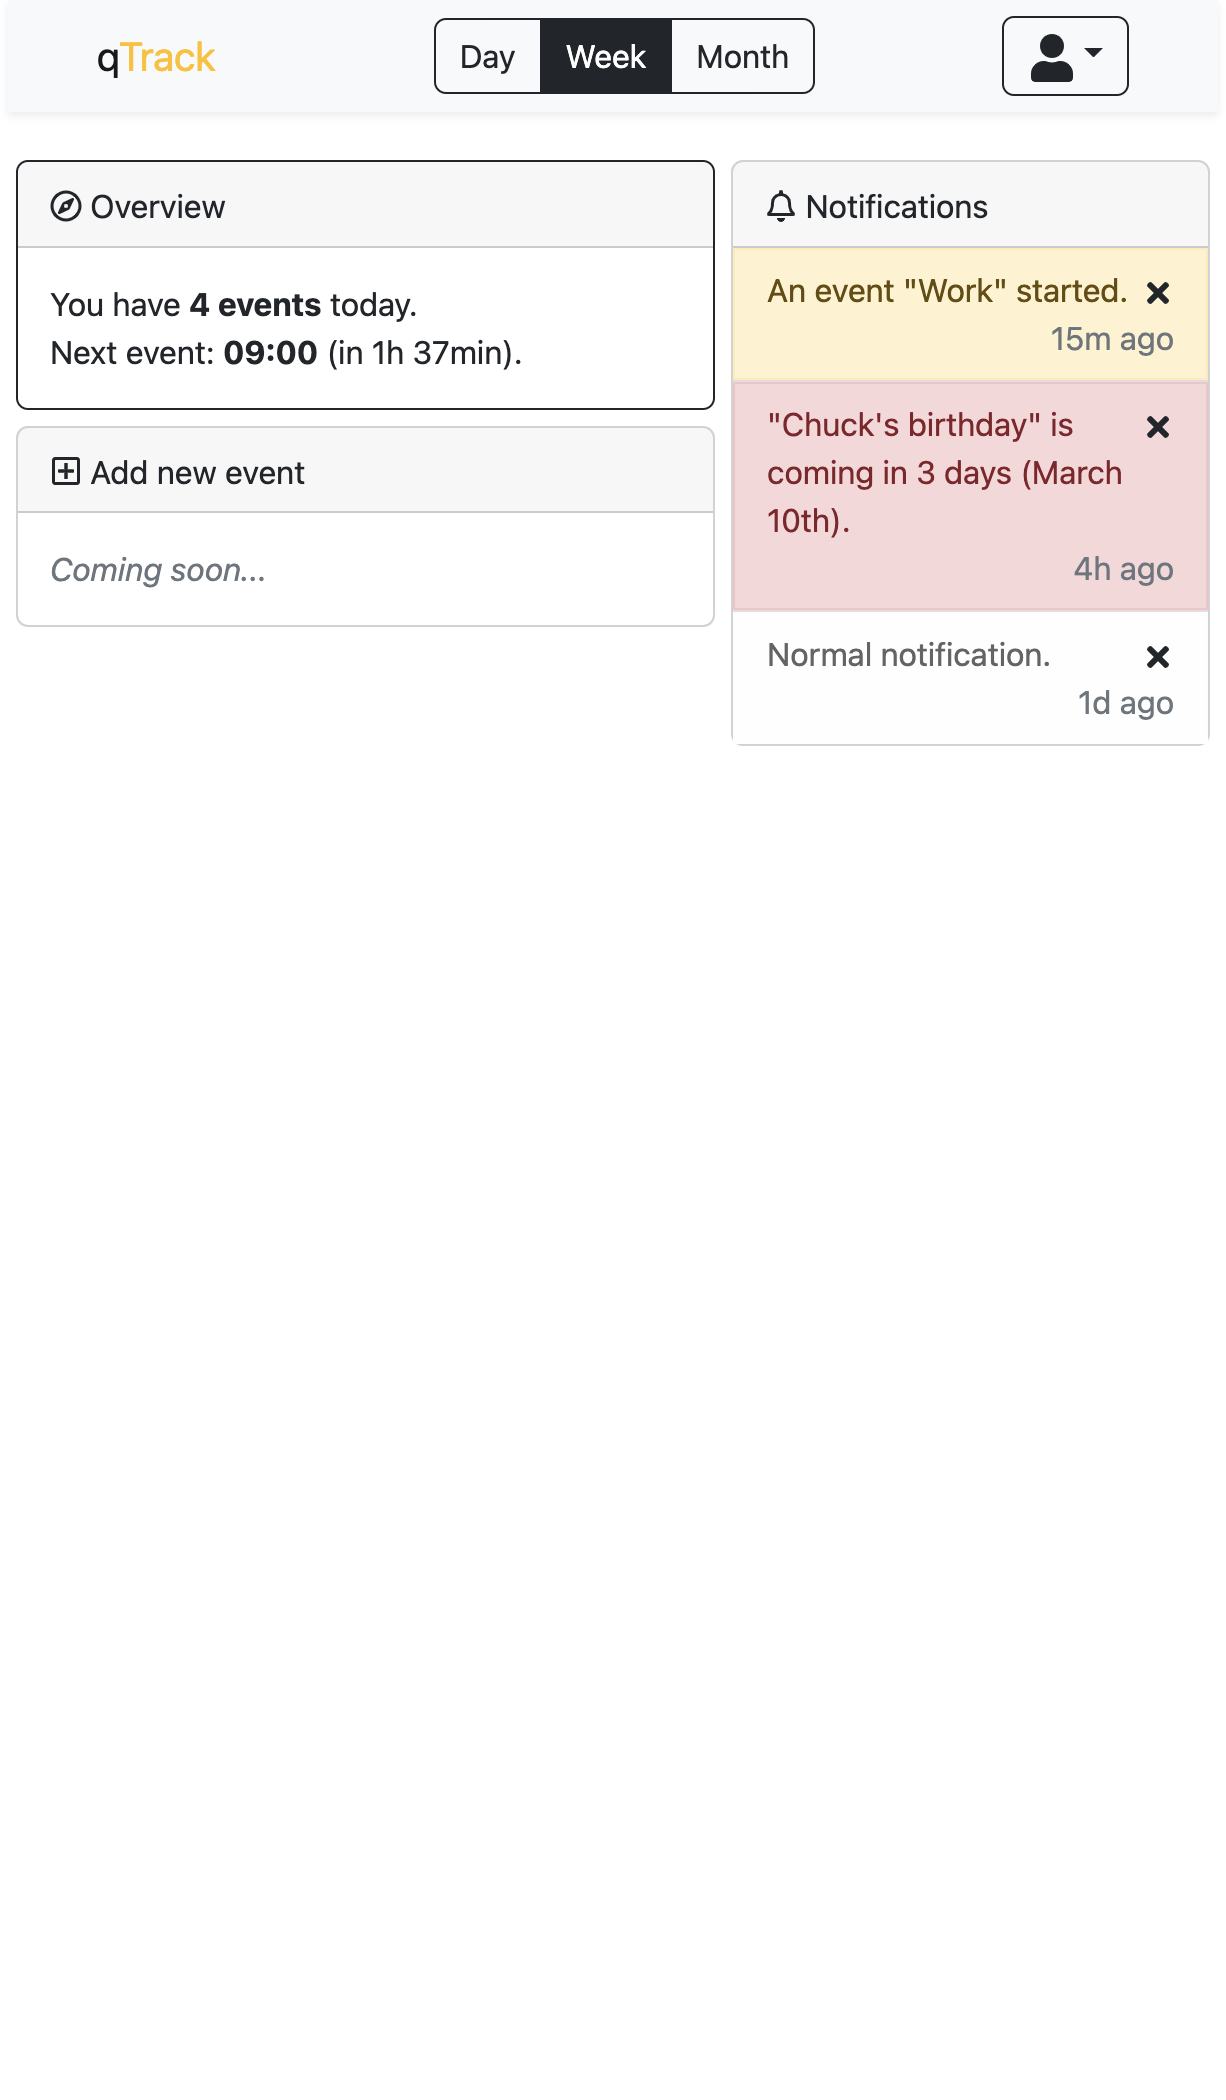
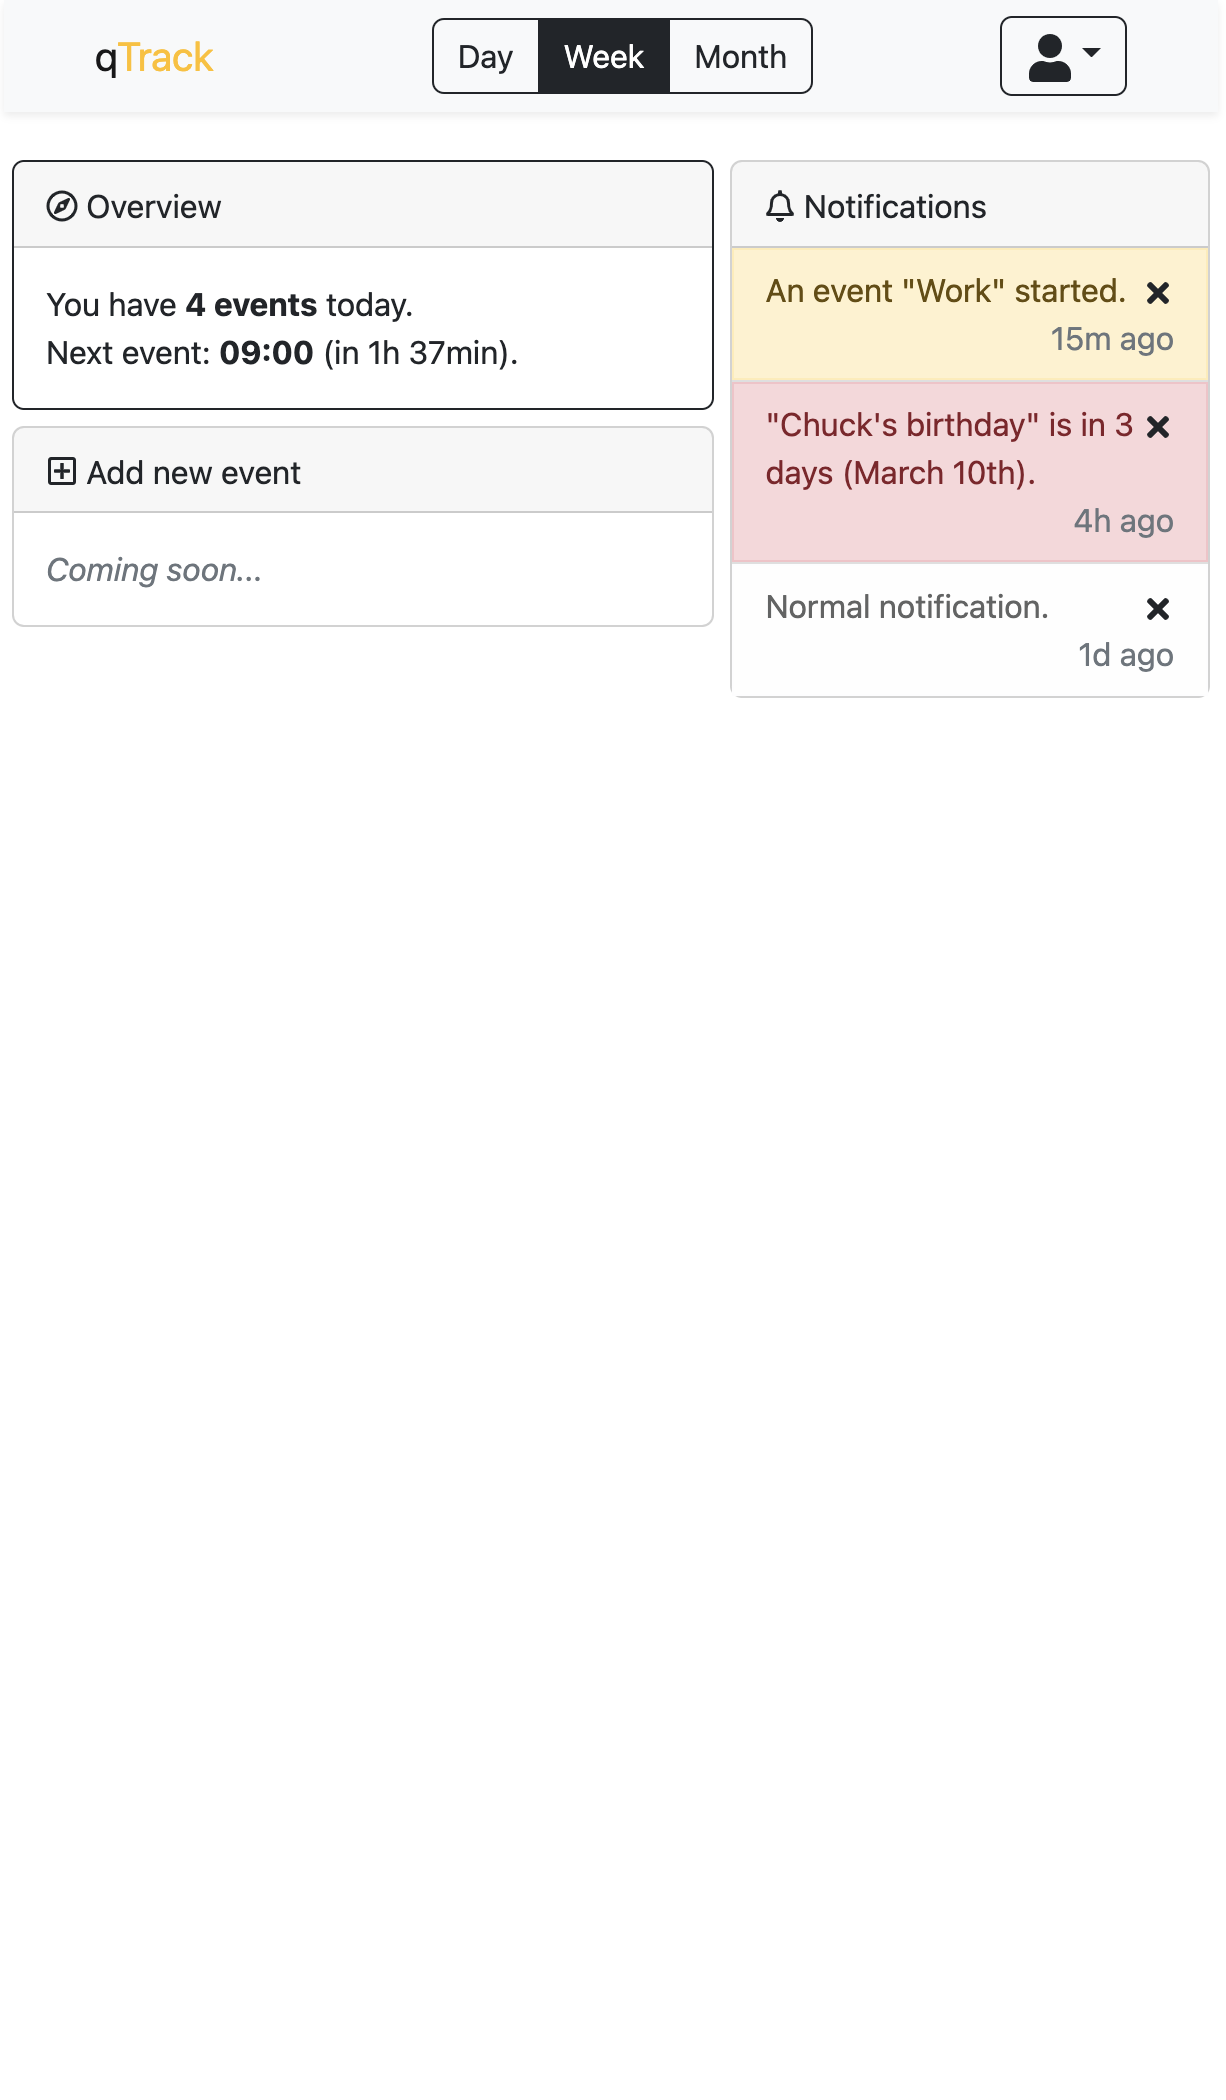
Visual improvements

diff --git a/frontend/src/pages/Week.tsx b/frontend/src/pages/Week.tsx
@@ -7,7 +7,7 @@ type Props = {};
 export const Week = (props: Props) => {
     return (
         <>
-            <div className="week bg-light">
+            <div className="week">
                 <div className="header">
                     <ul className="splitter">
                         <li></li>
@@ -19,7 +19,7 @@ export const Week = (props: Props) => {
                         <li></li>
                     </ul>
 
-                    <ul className="weekDays">
+                    <ul className="weekDays fw-bold text-muted">
                         <li>Mon</li>
                         <li>Tue</li>
                         <li>Wed</li>
@@ -29,7 +29,7 @@ export const Week = (props: Props) => {
                         <li>Sun</li>
                     </ul>
 
-                    <ul className="dayNumbers">
+                    <ul className="dayNumbers fw-bold">
                         <li>10</li>
                         <li>11</li>
                         <li>12</li>
@@ -41,31 +41,33 @@ export const Week = (props: Props) => {
                 </div>
 
                 <div className="timeContainer">
-                    <ul className="times">
-                        <li>00:00</li>
-                        <li>01:00</li>
-                        <li>02:00</li>
-                        <li>03:00</li>
-                        <li>04:00</li>
-                        <li>05:00</li>
-                        <li>06:00</li>
-                        <li>07:00</li>
-                        <li>08:00</li>
-                        <li>09:00</li>
-                        <li>10:00</li>
-                        <li>11:00</li>
-                        <li>12:00</li>
-                        <li>13:00</li>
-                        <li>14:00</li>
-                        <li>15:00</li>
-                        <li>16:00</li>
-                        <li>17:00</li>
-                        <li>18:00</li>
-                        <li>19:00</li>
-                        <li>20:00</li>
-                        <li>21:00</li>
-                        <li>22:00</li>
-                        <li>23:00</li>
+                    <ul className="times text-muted">
+                        <small>
+                            <li>00:00</li>
+                            <li>01:00</li>
+                            <li>02:00</li>
+                            <li>03:00</li>
+                            <li>04:00</li>
+                            <li>05:00</li>
+                            <li>06:00</li>
+                            <li>07:00</li>
+                            <li>08:00</li>
+                            <li>09:00</li>
+                            <li>10:00</li>
+                            <li>11:00</li>
+                            <li>12:00</li>
+                            <li>13:00</li>
+                            <li>14:00</li>
+                            <li>15:00</li>
+                            <li>16:00</li>
+                            <li>17:00</li>
+                            <li>18:00</li>
+                            <li>19:00</li>
+                            <li>20:00</li>
+                            <li>21:00</li>
+                            <li>22:00</li>
+                            <li>23:00</li>
+                        </small>
                     </ul>
                 </div>
 

diff --git a/frontend/src/pages/Home.tsx b/frontend/src/pages/Home.tsx
@@ -56,7 +56,7 @@ export const Home = (props: Props) => {
                             <ListGroup.Item className="p-0">
                                 <Stack className="alert alert-danger m-0 py-2 rounded-0">
                                     <div className="d-flex justify-content-between">
-                                        "Chuck's birthday" is coming in 3 days (March 10th).
+                                        "Chuck's birthday" is in 3 days (March 10th).
                                         <Link to="" className="text-dark ms-auto ps-1">
                                             <FaTimes/>
                                         </Link>

diff --git a/README.md b/README.md
@@ -4,8 +4,8 @@ A time tracking & calendar application.
 
 ### Week View & Home View v1
 <kbd>
-<img src="week_view_example.png" width="300px" alt="Main View">
+<img src="week_view.png" width="300px" alt="Week View">
 </kbd>
 <kbd>
-<img src="home_view.png" width="300px" alt="Main View">
+<img src="home_view.png" width="300px" alt="Home View">
 </kbd>
